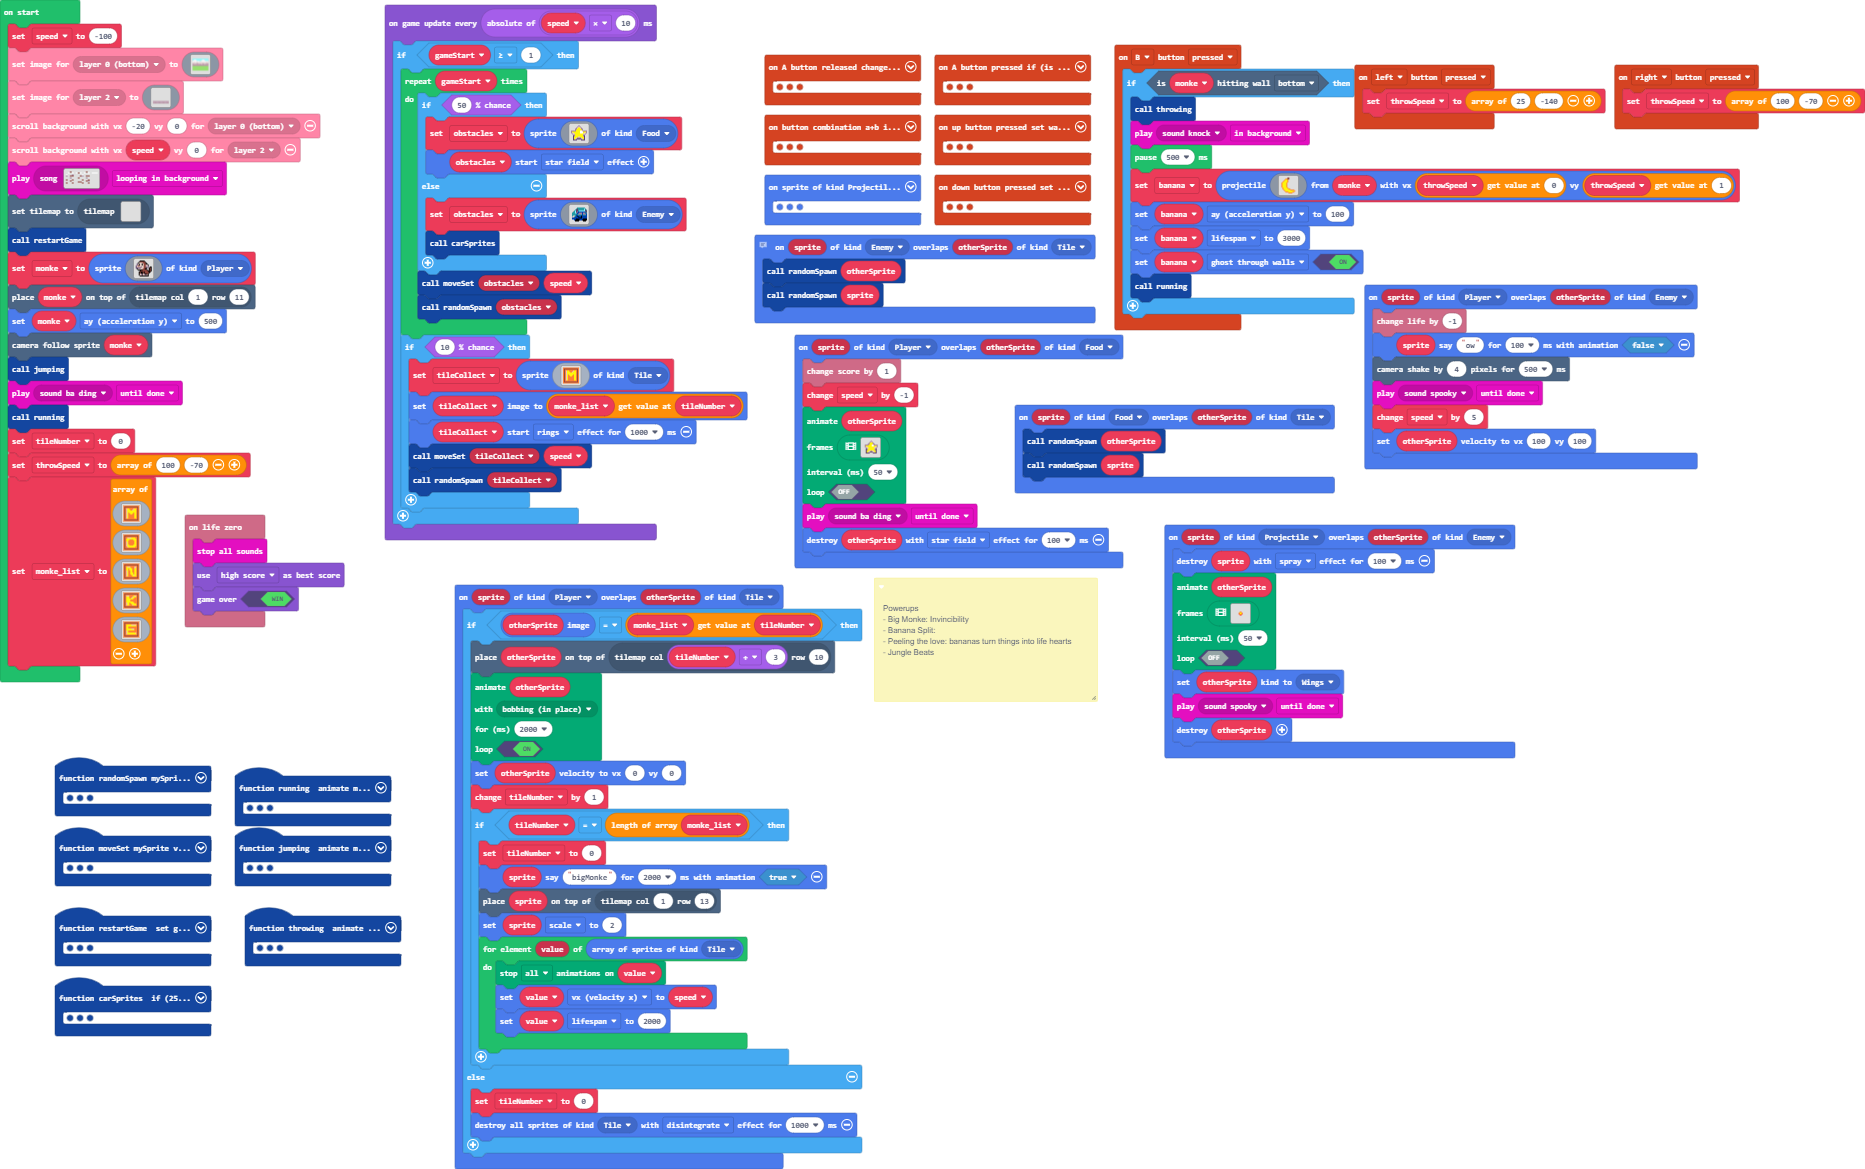
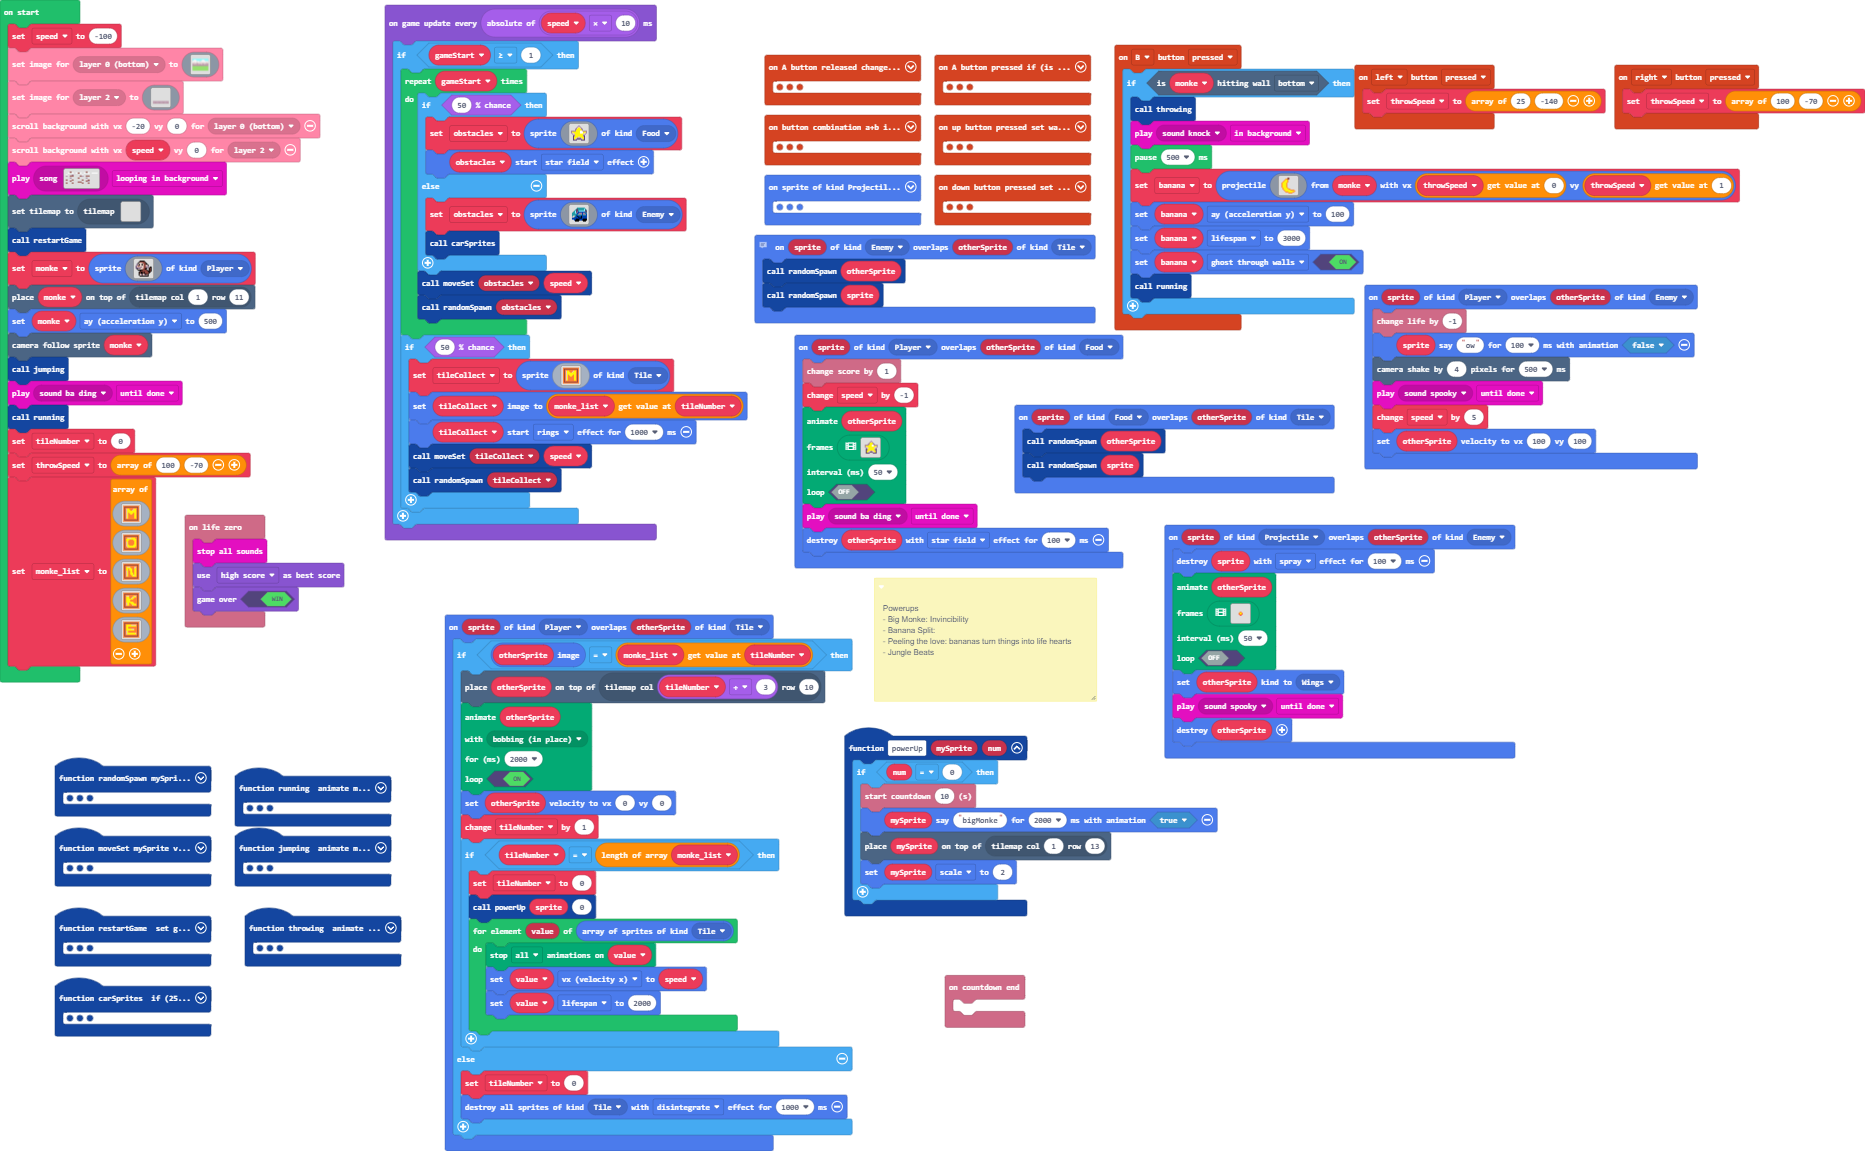
Update main.blocks, main.ts

Changed region(s): [[0.0, 0.0304, 1.0, 1.0]]

diff --git a/main.ts b/main.ts
@@ -3,17 +3,6 @@ namespace SpriteKind {
     export const Wings = SpriteKind.create()
     export const Tile = SpriteKind.create()
 }
-/**
- * Powerups
- * 
- * - Big Monke: Invincibility
- * 
- * - Banana Split:
- * 
- * - Peeling the love: bananas turn things into life hearts
- * 
- * - Jungle Beats
- */
 function jumping () {
     animation.runImageAnimation(
     monke,
@@ -647,6 +636,9 @@ function moveSet (mySprite: Sprite, velocity: number) {
         mySprite.lifespan = 10000000000
     }
 }
+info.onCountdownEnd(function () {
+	
+})
 sprites.onOverlap(SpriteKind.Projectile, SpriteKind.Intro, function (sprite, otherSprite) {
     otherSprite.startEffect(effects.confetti, 100)
     otherSprite.sayText("Press A+B to start!", 100, false)
@@ -728,6 +720,14 @@ function restartGame () {
 controller.down.onEvent(ControllerButtonEvent.Pressed, function () {
     tiles.setWallAt(tiles.getTileLocation(1, 15), false)
 })
+function powerUp (mySprite: Sprite, num: number) {
+    if (num == 0) {
+        info.startCountdown(10)
+        mySprite.sayText("bigMonke", 2000, true)
+        tiles.placeOnTile(mySprite, tiles.getTileLocation(1, 13))
+        mySprite.scale = 2
+    }
+}
 controller.A.onEvent(ControllerButtonEvent.Pressed, function () {
     if (monke.isHittingTile(CollisionDirection.Bottom)) {
         monke.vy = -185
@@ -838,6 +838,17 @@ function running () {
     true
     )
 }
+/**
+ * Powerups
+ * 
+ * - Big Monke: Invincibility
+ * 
+ * - Banana Split:
+ * 
+ * - Peeling the love: bananas turn things into life hearts
+ * 
+ * - Jungle Beats
+ */
 sprites.onOverlap(SpriteKind.Player, SpriteKind.Food, function (sprite, otherSprite) {
     info.changeScoreBy(1)
     speed += -1
@@ -948,9 +959,7 @@ sprites.onOverlap(SpriteKind.Player, SpriteKind.Tile, function (sprite, otherSpr
         tileNumber += 1
         if (tileNumber == monke_list.length) {
             tileNumber = 0
-            sprite.sayText("bigMonke", 2000, true)
-            tiles.placeOnTile(sprite, tiles.getTileLocation(1, 13))
-            sprite.scale = 2
+            powerUp(sprite, 0)
             for (let value of sprites.allOfKind(SpriteKind.Tile)) {
                 animation.stopAnimation(animation.AnimationTypes.All, value)
                 value.vx = speed
@@ -1511,7 +1520,7 @@ game.onUpdateInterval(Math.abs(speed * 10), function () {
             moveSet(obstacles, speed)
             randomSpawn(obstacles)
         }
-        if (Math.percentChance(10)) {
+        if (Math.percentChance(50)) {
             tileCollect = sprites.create(img`
                 4 4 4 4 4 4 4 4 4 4 4 4 4 4 4 4 
                 4 e e e e e e e e e e e e e e 4 
